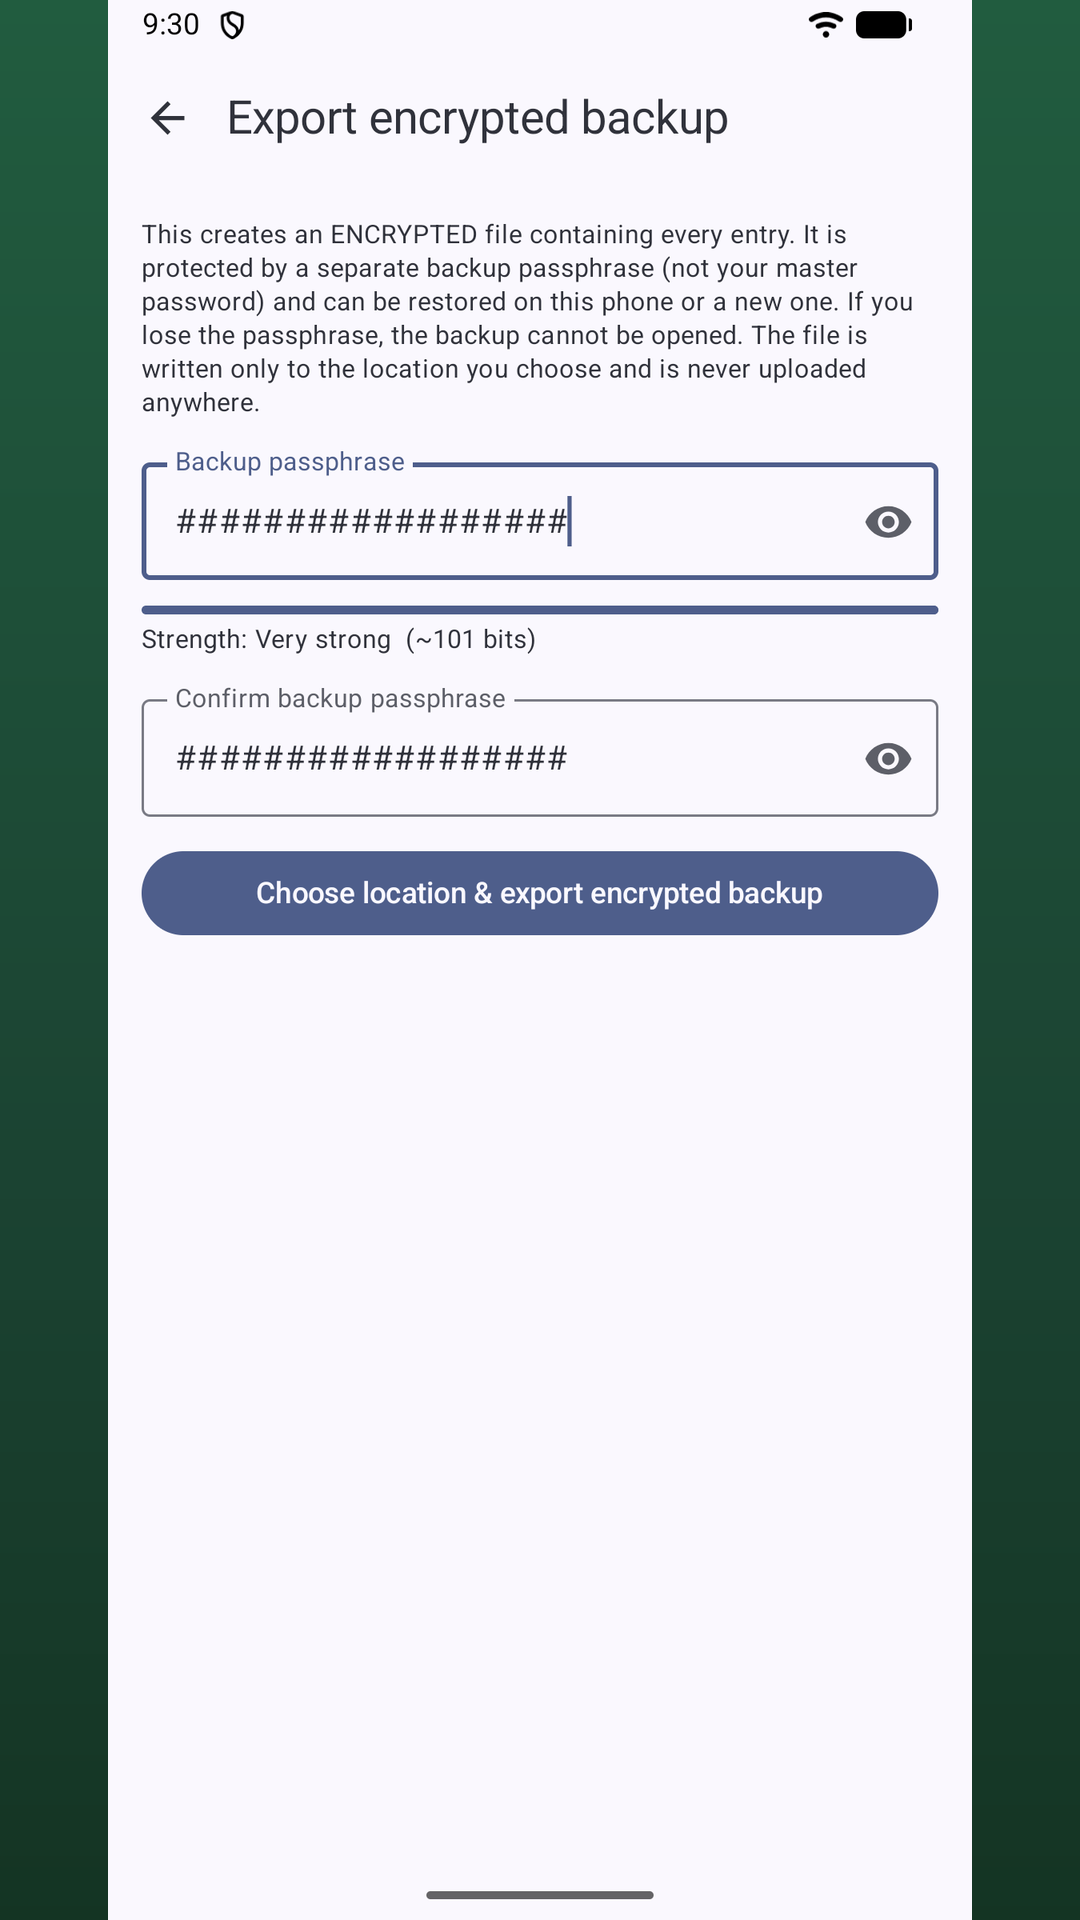
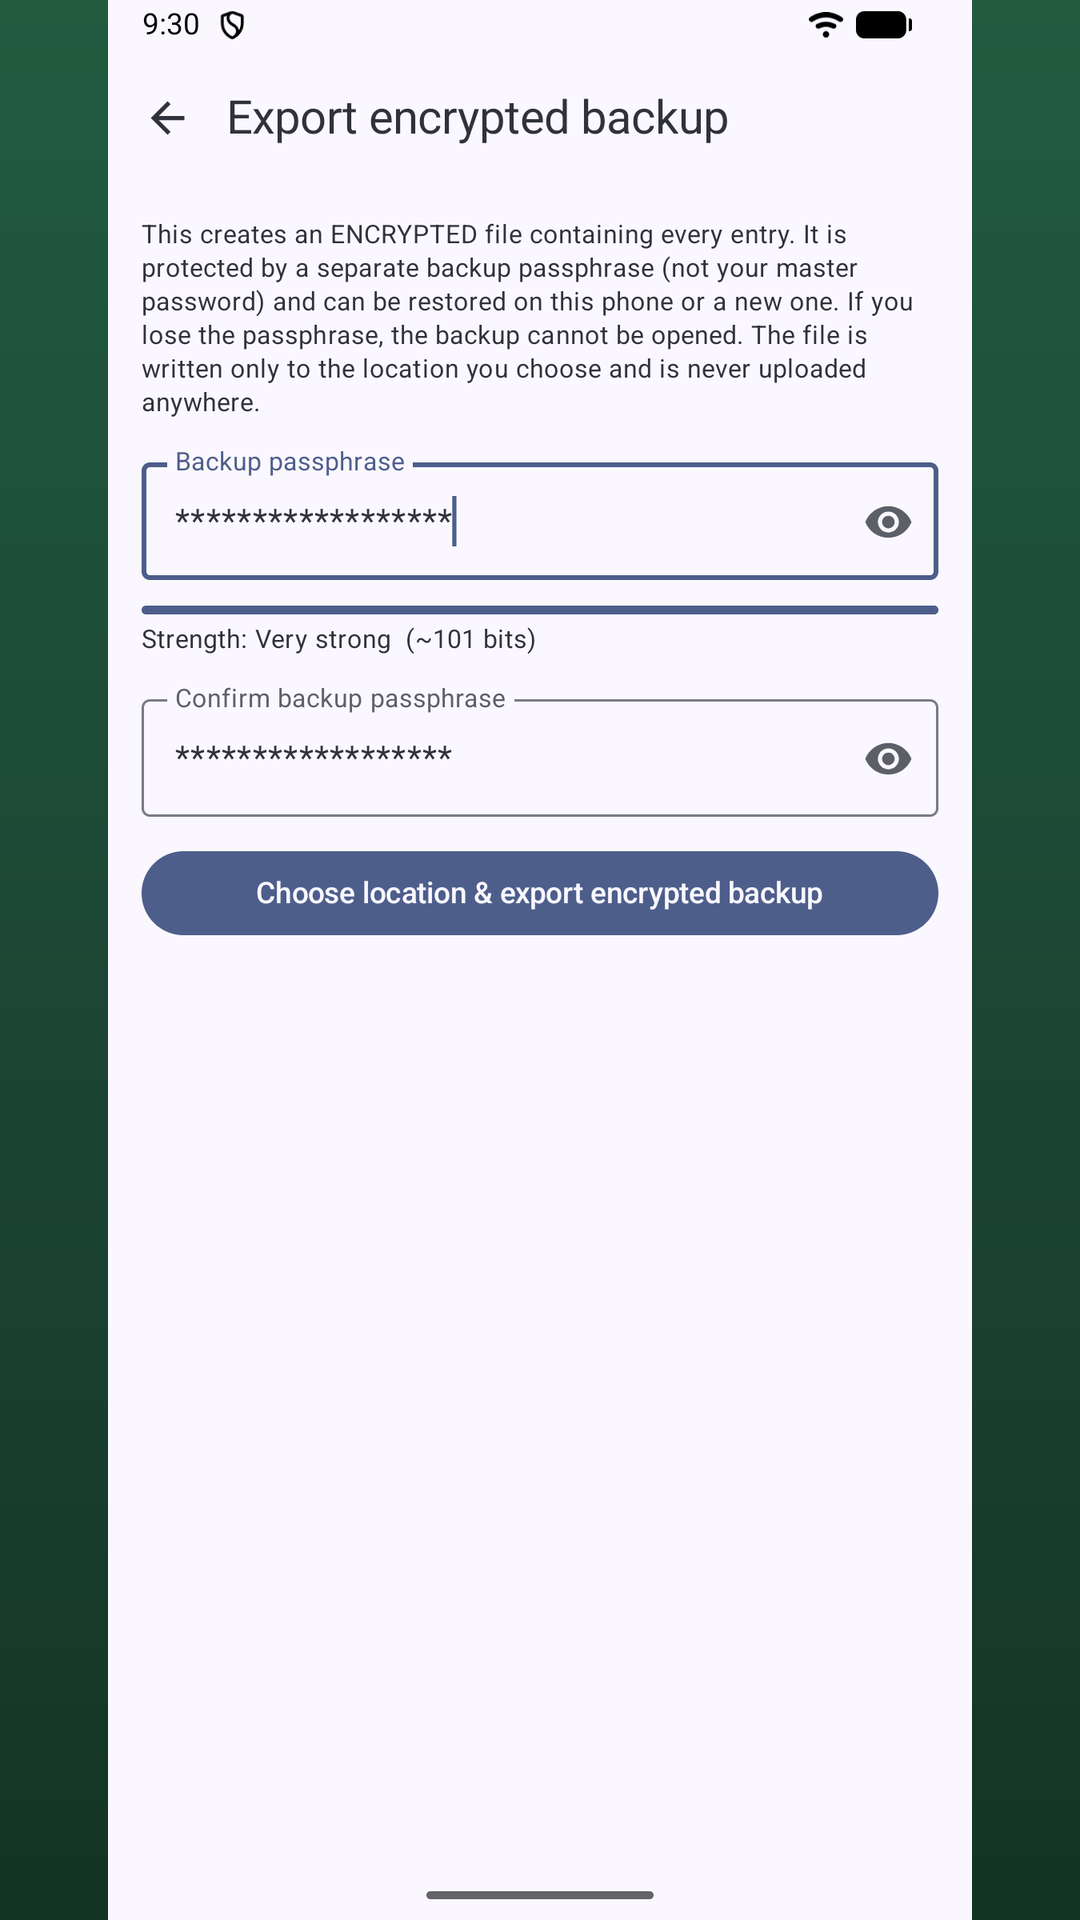
Change the password censor from '#' to '*'
The mask shown for a hidden password is now an asterisk. Both the editable
field's PasswordVisualTransformation and the read-only detail row derive from the
single CENSOR_CHAR constant, and the fixed-width mask is now built from that
constant rather than being a separate hardcoded literal - the two could
previously have been changed independently and drifted apart.

Adds PasswordCensorTest to pin the behaviour: the character itself, that the mask
contains nothing but that character, that its width does not vary with the real
password length, and that it contains no letter or digit.

Store screenshots showing a masked password (entry detail, encrypted backup, edit
entry) were re-captured from the rebuilt release APK, since the old ones showed
'#' and would have contradicted the app.

150 unit tests pass; release APK, App Bundle, androidTest and lint all build clean.

Claude-Session: https://claude.ai/code/session_01TycwfeQFVLmGhrP5CCJ982

Changed region(s): [[0.1528, 0.25, 0.55, 0.2812], [0.1528, 0.375, 0.5194, 0.4062]]

diff --git a/app/src/test/java/com/aldinson/offlinepasswordwallet/ui/PasswordCensorTest.kt b/app/src/test/java/com/aldinson/offlinepasswordwallet/ui/PasswordCensorTest.kt
@@ -1,0 +1,51 @@
+package com.aldinson.offlinepasswordwallet.ui
+
+import com.aldinson.offlinepasswordwallet.ui.components.CENSOR_CHAR
+import com.aldinson.offlinepasswordwallet.ui.components.censored
+import org.junit.Assert.assertEquals
+import org.junit.Assert.assertFalse
+import org.junit.Assert.assertTrue
+import org.junit.Test
+
+/**
+ * The masked rendering of a hidden password.
+ *
+ * The editable field's `PasswordVisualTransformation` mask and the read-only
+ * detail row both derive from [CENSOR_CHAR], so these assertions pin the two to
+ * the same character — the bug this guards against is one of them being changed
+ * and the other quietly left behind.
+ */
+class PasswordCensorTest {
+
+    @Test
+    fun `censor character is an asterisk`() {
+        assertEquals('*', CENSOR_CHAR)
+    }
+
+    @Test
+    fun `masked rendering is built only from the censor character`() {
+        val masked = censored()
+        assertTrue("mask must not be empty", masked.isNotEmpty())
+        assertTrue(
+            "mask must contain nothing but '$CENSOR_CHAR', was '$masked'",
+            masked.all { it == CENSOR_CHAR },
+        )
+    }
+
+    @Test
+    fun `masked rendering never leaks the real password length`() {
+        // Whatever the password, the mask shown in the detail row is the same
+        // fixed width — otherwise its length alone would narrow a guess.
+        val lengths = listOf("a", "hunter2", "x".repeat(64), "")
+            .map { censored().length }
+            .toSet()
+        assertEquals(1, lengths.size)
+    }
+
+    @Test
+    fun `masked rendering contains no character that could be mistaken for content`() {
+        val masked = censored()
+        assertFalse(masked.any { it.isLetterOrDigit() })
+        assertFalse(masked.contains('#')) // the previous censor, now replaced
+    }
+}

diff --git a/app/src/main/java/com/aldinson/offlinepasswordwallet/ui/components/Components.kt b/app/src/main/java/com/aldinson/offlinepasswordwallet/ui/components/Components.kt
@@ -33,9 +33,18 @@ import androidx.compose.ui.unit.dp
 import com.aldinson.offlinepasswordwallet.password.PasswordStrength
 import com.aldinson.offlinepasswordwallet.password.StrengthResult
 
-/** The censor rendering used everywhere a hidden password is shown (§8). */
-const val CENSOR_CHAR = '#'
-private const val CENSOR_DISPLAY = "##########" // fixed length; does not leak real length
+/**
+ * The censor rendering used everywhere a hidden password is shown.
+ *
+ * Both the editable field's mask and the read-only detail row derive from this
+ * single character, so the two can never disagree about what a hidden password
+ * looks like.
+ */
+const val CENSOR_CHAR = '*'
+
+/** Fixed length on purpose: a hidden value must not leak how long it really is. */
+private const val CENSOR_DISPLAY_LENGTH = 10
+private val CENSOR_DISPLAY = CENSOR_CHAR.toString().repeat(CENSOR_DISPLAY_LENGTH)
 
 fun censored(): String = CENSOR_DISPLAY
 

diff --git a/README.md b/README.md
@@ -638,7 +638,7 @@ Defaults (length, specials on/off) are configurable in Settings.
 | Hostile KDF parameters in a vault/backup file (CPU-pinning DoS, or a silently weakened KDF) | Iterations, algorithm, key length and salts are range-checked before reaching the KDF; out-of-range is a format error. |
 | Bypassing the recovery throttle by wiping/locking its state file, or by moving the clock | Corrupt state = maximum penalty; in-memory tally floors the count; deadline enforced on both wall and monotonic clocks. |
 | A CSV export detonating in a spreadsheet (formula injection) | Values starting with `= + - @` TAB CR are neutralized on export and restored on import. |
-| Shoulder-surfing / screen capture | Passwords masked with `#`; `FLAG_SECURE` on by default (blocks screenshots, screen recording, recents preview). |
+| Shoulder-surfing / screen capture | Passwords masked with `*` (fixed width, so the mask does not leak the real length); `FLAG_SECURE` on by default (blocks screenshots, screen recording, recents preview). |
 | App left open | Inactivity auto-lock + lock-on-background; references cleared. |
 | Clipboard scraping | Sensitive-flagged clips + timed auto-clear. |
 | OS backup exfiltration | Backup and device-transfer fully disabled for all domains. |

diff --git a/store-listing/README.md b/store-listing/README.md
@@ -27,7 +27,7 @@ you prefer to upload the native captures.
 
 1. **Locked vault** — the lock screen; nothing is revealed before authentication
 2. **Vault list** — entries with search
-3. **Entry detail** — password masked with `#`, per-field copy, SHOW toggle
+3. **Entry detail** — password masked with `*`, per-field copy, SHOW toggle
 4. **Password generator** — length slider, restricted symbol set
 5. **Security settings** — biometric unlock, auto-lock timeout
 6. **Encrypted backup** — export protected by its own passphrase
